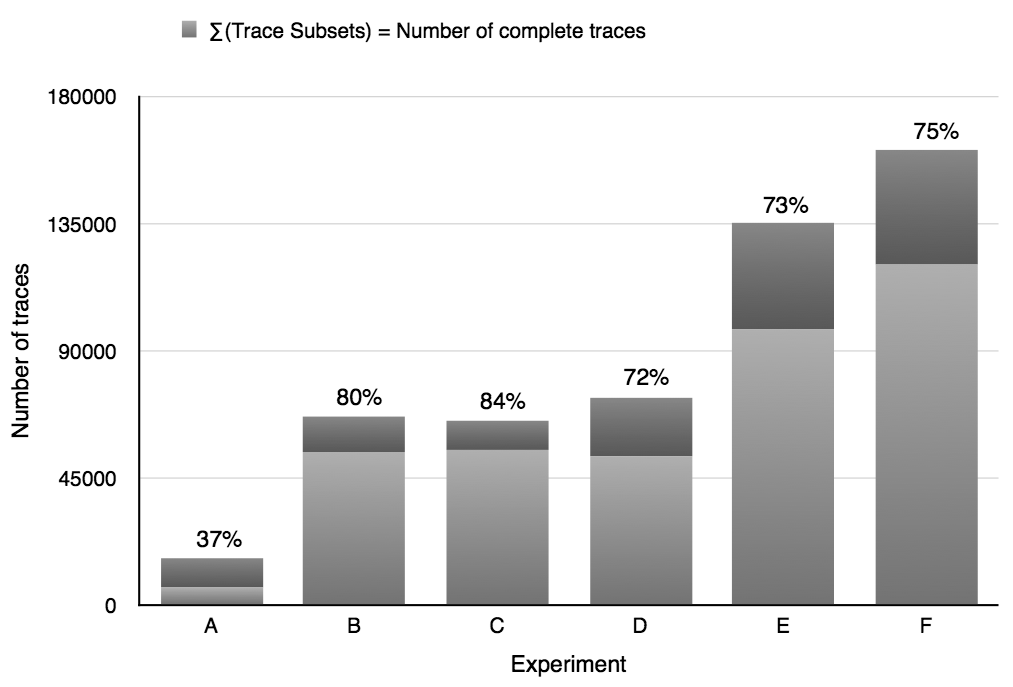
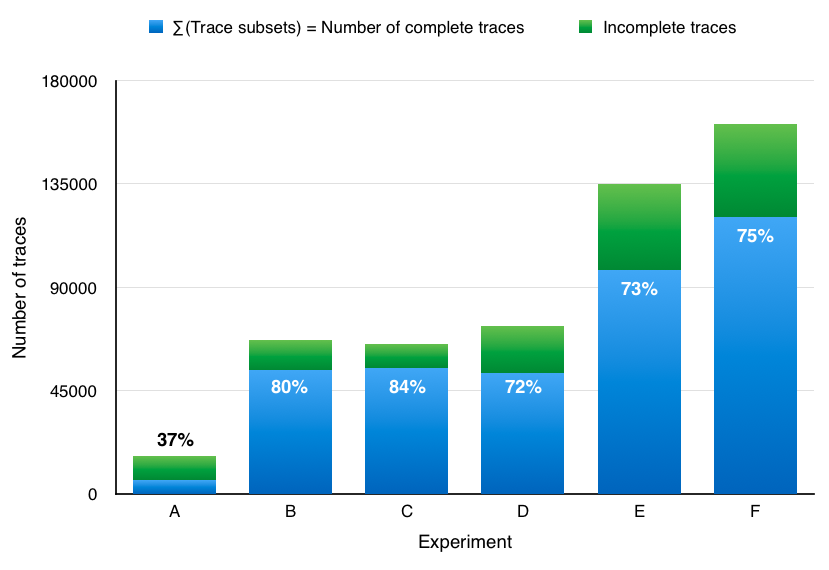
add better graphs

diff --git a/src/model-inference/2_production-systems.tex b/src/model-inference/2_production-systems.tex
@@ -1122,7 +1122,7 @@ periods of time. We executed our implementation on a Linux
 
 We present here the results of 6 experiments on the same
 production system with different event sets collected during 1,
-8, 11, 20, and 23 days. These results are depicted in Figure
+8, 11, 20, and 23 days. These results are depicted in Table
 \ref{fig:results}. The third column gives the number of
 production events recorded on the system. The next column shows
 the trace number obtained after the parsing step.  $N$ and $M$
@@ -1160,10 +1160,10 @@ $C_2$ &       &           &         &   &   &  7,824 &  80   &   \\
 $D_1$ & 11    & 3,851,264 & 73,364  & 2 & 3 & 35,541 & 924   & 9 \\
 $D_2$ &       &           &         &   &   & 17,402 & 837   &   \\
 \hline
-$E_1$ & 20    & 7,635,494 & 134,908 & 2 & 3 & 61,795 & 1,441 & 16 \\
+$E_1$ & 20    & 7,635,494 & 134,908 & 2 & 3 & 61,795 & 1,441 & 15 \\
 $E_2$ &       &           &         &   &   & 35,799 & 1,401 &    \\
 \hline
-$F_1$ & 23    & 9,231,160 & 161,035 & 2 & 3 & 77,058 & 1,587 & 24 \\
+$F_1$ & 23    & 9,231,160 & 161,035 & 2 & 3 & 77,058 & 1,587 & 21 \\
 $F_2$ &       &           &         &   &   & 43,536 & 1,585 &    \\
 \hline
 \end{tabular}
@@ -1174,11 +1174,11 @@ Michelin production system with different event sets.}
 \label{fig:results}
 \end{sidewaystable}
 
-First, these results show that our framework can take millions
-of production events and still builds models quickly (20
-minutes). With sets collected during one day up to one week
-(experiments $A$, $B$, $C$, and $D$), models are inferred in less
-than 10 minutes. Hence, \textit{Autofunk} can be used to quickly infer
+First, these results show that our framework can take millions of
+production events and still builds models quickly (20 minutes).
+With sets collected during one day up to one week (experiments
+$A$, $B$, $C$, and $D$), models are inferred in less than 10
+minutes. Hence, \textit{Autofunk} can be used to quickly infer
 models for analysis purpose or to help diagnose faults in a
 system. Experiment $F$ handled almost 10 million events in less
 than half an hour to build two models including around 1,600
@@ -1188,15 +1188,14 @@ minutes to open and parse around 1,000 files (number of Michelin
 log files for this experiment). This issue is solved by the
 architecture presented in Figure \ref{fig:autofunk_gen_branded}.
 The graph shown in Figure \ref{fig:time-vs-messages} summarizes
-the performances of our framework and how fast it is at
+the performances of our framework, and how fast it is at
 transforming production events into models (experiments $B$, $C$
 and $D$ run in about 9 minutes). It also demonstrates that
 doubling the event set does not involve doubling its execution
-time. The exponential trend line reveals that the overall
-framework scales well, even with the current parsing
-implementation.
+time. The linear regression reveals that the overall framework
+scales well, even with the current parsing implementation.
 
-In Figure \ref{fig:results}, the difference between the number of
+In Table \ref{fig:results}, the difference between the number of
 trace subsets (7th column) and the number of branches included in
 the STSs $R(\EuScript{S}_i)$ (8th column) clearly shows that our
 STS reduction approach is effective. For instance, with
@@ -1209,33 +1208,33 @@ The reduction ratio may vary with other systems.
 \begin{figure}[ht]
   \includegraphics[width=1.0\linewidth]{figures/time-vs-messages.png}
 
-  \caption{Execution time vs events. According to the exponential
-  trend, we can state that our framework scales well.}
+  \caption{Execution time vs events. According to the trend shown
+  by the linear regression, we can state that our framework
+  scales well.}
   \label{fig:time-vs-messages}
-
-  \TODO{not really accurate}
 \end{figure}
 
-We also extracted the values of columns 4 and 7 in Figure
+We also extracted the values of columns 4 and 7 in Table
 \ref{fig:results} to depict the stacked bar chart illustrated in
 Figure \ref{fig:proportions}. This chart shows, for each
-experiment, the proportion of complete traces kept by \textit{Autofunk} to
-build models, over the initial number of traces in $Traces(Sua)$.
-\textit{Autofunk} has kept only 37\% of the initial traces in Experiment
-$A$ because its initial trace set is too small and contains many
-incomplete behaviors. During a day, most of the recorded traces
-do not start or end at entry or exit points, but rather start or
-end somewhere in production lines (cf. Section
-\ref{prodsys:context}). That is why, on a single day, we can find
-so many incomplete traces. With more production events, such a
-phenomenon is limited because we absorb these storage delays.
+experiment, the proportion of complete traces kept by
+\textit{Autofunk} to build models, over the initial number of
+traces in $Traces(Sua)$.  \textit{Autofunk} has kept only 37\% of
+the initial traces in Experiment $A$ because its initial trace
+set is too small and contains many incomplete behaviors. During a
+day, most of the recorded traces do not start or end at entry or
+exit points, but rather start or end somewhere in production
+lines (cf. Section \ref{prodsys:context}). That is why, on a
+single day, we can find so many incomplete traces. With more
+production events, such a phenomenon is limited because we absorb
+these storage delays.
 
 \begin{figure}[ht]
   \includegraphics[width=1.0\linewidth]{figures/proportions.png}
 
   \caption{Proportions of complete traces for the different
-  experiments. This chart shows that \textit{Autofunk} considers a lot of
-  traces to infer models, but there is still room for
+  experiments. This chart shows that \textit{Autofunk} considers
+  a lot of traces to infer models, but there is still room for
   improvement.}
   \label{fig:proportions}
 \end{figure}
@@ -1260,17 +1259,6 @@ concluded that 10\% was the best ratio for removing incomplete
 traces in our experiments.  30\% of initial traces have been
 removed, which is close to the reality.
 
-\begin{figure}[ht]
-  \includegraphics[width=1.0\linewidth]{figures/memory-time.png}
-
-  \caption{Memory consumption vs execution time. This version of
-  \textit{Autofunk} is still a prototype, and memory consumption remains
-  an issue.}
-  \label{fig:memory-time}
-
-  \TODO{not really accurate}
-\end{figure}
-
 Another potential issue with our parsing implementation is that
 every event has to be loaded in memory, so that we can perform
 computation and apply our algorithms on them. But working
@@ -1278,9 +1266,19 @@ with millions of Java objects requires a lot of memory, \emph{i.e.}
 memory consumption depends on the amount of initial traces. We
 compared execution time and memory consumption in Figure
 \ref{fig:memory-time}, showing that memory consumption tends to
-follow a logarithmic trend. In the next version of \textit{Autofunk}, we
-plan to work on improving memory consumption even if it has been
-considered acceptable as is by Michelin.
+follow a logarithmic trend. In the next version of
+\textit{Autofunk}, we plan to work on improving memory
+consumption even if it has been considered acceptable as is by
+Michelin.
+
+\begin{figure}[ht]
+  \includegraphics[width=1.0\linewidth]{figures/memory-time.png}
+
+  \caption{Execution time vs memory consumption. This version 2 of
+  \textit{Autofunk} is still a prototype, and memory consumption
+  remains an issue.}
+  \label{fig:memory-time}
+\end{figure}
 
 For confidentiality reasons, we are not able to provide results
 related to the generation of more abstract models.
